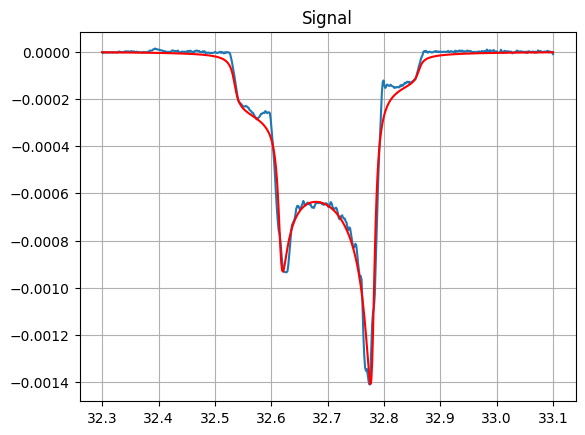
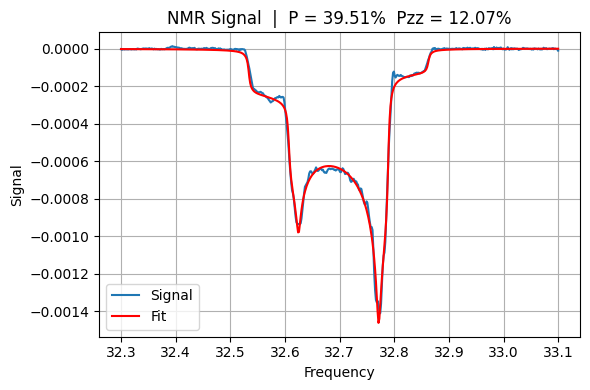
Update image

diff --git a/README.md b/README.md
@@ -105,9 +105,9 @@ See the [lmfit documentation](https://lmfit.github.io/lmfit-py/parameters.html) 
 
 An example signal is included for fitting. `example.py` gives an example usage which will plot the signal to test your installation.
 
-![Example Fit of 42% Polarized Deuteron Signal at 5T](example_data/example.png)
+![Example Fit of 40% Polarized Deuteron Signal at 5T](example_data/example.png)
 
-Example fit of 42% polarized deuteron signal at 5T taken on ND<sub>3</sub> during Run Group C at [Jefferson Lab](https://www.jlab.org/).
+Example fit of 40% polarized deuteron signal at 5T taken on ND<sub>3</sub> during Run Group C at [Jefferson Lab](https://www.jlab.org/).
 
 ## Author
 Written in 2021 by J. Maxwell (https://orcid.org/0000-0003-2710-4646). Added complex fitting in 2026.
